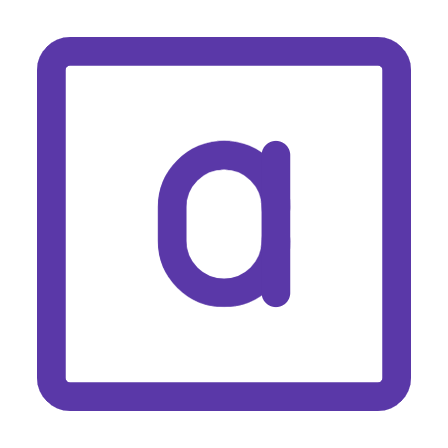
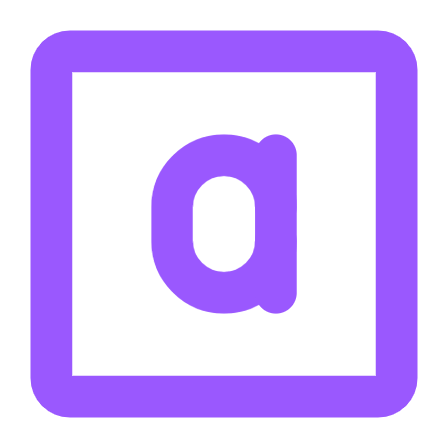
reponsive design for smaller devices

diff --git a/src/pages/Projects/Projects.jsx b/src/pages/Projects/Projects.jsx
@@ -25,15 +25,15 @@ export default function Projects() {
   return (
     <section
       id="projects"
-      className="flex flex-col gap-[4rem] max-w-[60%] lg:max-w-[50%] py-[1rem]"
+      className="flex flex-col gap-[4rem] lg:max-w-[50%] px-[5vw] py-[1rem]"
     >
       <h2 className="text-slate-50 text-center font-medium text-3xl">
         Projects
       </h2>
       {projects.map((project, index) => (
         <div key={index}>
-          <div className="bg-gray-700 rounded-lg gap-[2rem] p-[2rem] flex flex-col">
-            <h3 className="font-bold text-slate-50 text:sm lg:text-3xl">
+          <div className="bg-gray-700 rounded-lg gap-[2rem] p-[1rem] flex flex-col">
+            <h3 className="font-bold text-slate-50 text-2xl lg:text-3xl">
               {project.title}
             </h3>
             <p className="text-stone-300 font-medium leading-[1.6rem]">
@@ -43,7 +43,7 @@ export default function Projects() {
               {project.techStack.map((tech, index) => (
                 <li
                   key={index}
-                  className="text-stone-200 font-medium bg-slate-800 py-2 px-4 rounded-lg"
+                  className="text-stone-200 font-medium bg-slate-800 text-md py-[0.3rem] px-[0.3rem] lg:py-2 lg:px-4 rounded-lg"
                 >
                   {tech}
                 </li>
@@ -57,7 +57,7 @@ export default function Projects() {
               <button className="text-slate-50 bg-[#000000a8] px-5 py-3 rounded-md">
                 Live Demo &rarr;
               </button>
-              <div className="flex gap-1 text-slate-50 bg-[#000000a8] px-5 py-3 rounded-md  ">
+              <div className="flex items-center justify-center gap-1 text-slate-50 bg-[#000000a8] px-5 py-3 rounded-md">
                 <button>Code </button>
                 <svg
                   xmlns="http://www.w3.org/2000/svg"

diff --git a/src/components/AboutMe/AboutMe.jsx b/src/components/AboutMe/AboutMe.jsx
@@ -1,10 +1,10 @@
 export default function AboutMe() {
   return (
     <div className="flex items-center justify-center flex-col gap-7 max-w-[35rem] text-slate-50">
-      <h2 className="text-xl text-center md:text-3xl font-bold md:font-medium">
+      <h2 className="text-center text-3xl font-bold md:font-medium">
         About me
       </h2>
-      <p className="text-center">
+      <p className="text-center px-[6vw] lg:px-0">
         My passion for web development came in a very unexpected period of my
         professional life. My initial plan was to pursue a degree in Psychology
         until I decided to make a change and deep dive into the world of
@@ -15,7 +15,7 @@ export default function AboutMe() {
         learn new technologies. I am currently looking for a{" "}
         <b>full-time position</b> as a software developer.
       </p>
-      <p className="text-center">
+      <p className="text-center px-[6vw] lg:px-0">
         When I'm not exploring the development <em>rabbit hole</em>, I enjoy
         playing video games with my friends, playing with my cat and watching
         movies.

diff --git a/src/components/Intro/Intro.jsx b/src/components/Intro/Intro.jsx
@@ -2,15 +2,13 @@ import pfpImage from "../../assets/imgs/pfp.png";
 
 export default function Intro() {
   return (
-    <div className="flex justify-center items-center z-[3] flex-col text-slate-50 lg:max-w-[38rem] max-w-[34rem] lg:mx-[6rem] gap-[1.7rem]">
+    <div className="flex justify-center items-center z-[3] flex-col text-slate-50 lg:max-w-[38rem] max-w-[34rem] lg:mx-[6rem] gap-[0.5rem] lg:gap-[1.7rem]">
       <img
-        width="140"
-        height="140"
-        className="rounded-full border-[3px] border-gray-50"
+        className="rounded-full border-[3px] border-gray-50 max-w-[140px]"
         src={pfpImage}
         alt="picture of myself"
       />
-      <h2 className="font-medium text-xl md:text-3xl text-wrap">
+      <h2 className="font-medium text-2xl md:text-3xl text-wrap">
         Hey!👋🏻 I'm <b>Anastasia</b>.
       </h2>
       <p className="font-medium text-lg md:text-3xl text-center !leading-[1.5]">

diff --git a/public/index.html b/public/index.html
@@ -3,13 +3,15 @@
   <head>
     <meta charset="utf-8" />
     <meta name="viewport" content="width=device-width, initial-scale=1" />
-    <meta
-      name="description"
-      content="Web site created using create-react-app"
-    />
-    <link rel="stylesheet" href="/src/index.css" />
+    <meta name="description" content="Personal website" />
+    <link rel="stylesheet" href="../src/index.css" />
     <title>Anastasia | Portofolio</title>
-    <link rel="icon" type="image/x-icon" />
+    <link
+      rel="icon"
+      type="image/x-icon"
+      href="../src/assets/imgs/a-letter.png"
+      sizes="32x32"
+    />
   </head>
   <body>
     <div id="root"></div>

diff --git a/src/components/TechStack/TechStack.jsx b/src/components/TechStack/TechStack.jsx
@@ -9,9 +9,7 @@ let techlist = [
 export default function TechStack() {
   return (
     <div className="flex flex-col items-center justify-center gap-[2rem] pt-[2rem] border-t-[2px] text-slate-50">
-      <h2 className="font-bold text-xl md:text-3xl  md:font-medium">
-        My toolbox
-      </h2>
+      <h2 className="font-bold text-3xl md:font-medium">My toolbox</h2>
       <ul className="flex gap-[2rem] text-xl flex-col md:flex-row">
         {techlist.map((tech, index) => (
           <li className="hover:scale-125" key={index}>

diff --git a/src/index.css b/src/index.css
@@ -7,15 +7,20 @@
 }
 
 ::-webkit-scrollbar-track {
-  background: #111827;
+  background: #0c1220;
 }
 
 ::-webkit-scrollbar-thumb {
-  background: #a695ff92;
+  background: #e5e0ff79;
   border-radius: 10px;
+}
+
+::-webkit-scrollbar-thumb:hover {
+  background: #e5e0ffd1;
 }
 
 body {
   margin: 0;
   scroll-behavior: smooth;
+  overflow: overlay;
 }

diff --git a/src/pages/Contact/Contact.jsx b/src/pages/Contact/Contact.jsx
@@ -4,7 +4,7 @@ export default function Contact() {
   return (
     <section
       id="contact"
-      className="flex flex-col gap-[1rem] lg:py-[10rem] max-w-[90%]"
+      className="flex flex-col gap-[1rem] py-[7rem] max-w-[90%]"
     >
       <h2 className="text-3xl text:md font-medium text-slate-50 text-center">
         Contact Me

diff --git a/src/pages/About/About.jsx b/src/pages/About/About.jsx
@@ -5,7 +5,7 @@ export default function About() {
   return (
     <section
       id="about-me"
-      className="flex flex-col gap-[5rem] items-center justify-center py-[10rem]"
+      className="flex flex-col gap-[5rem] items-center justify-center py-[7rem]"
     >
       <AboutMe />
       <TechStack />
